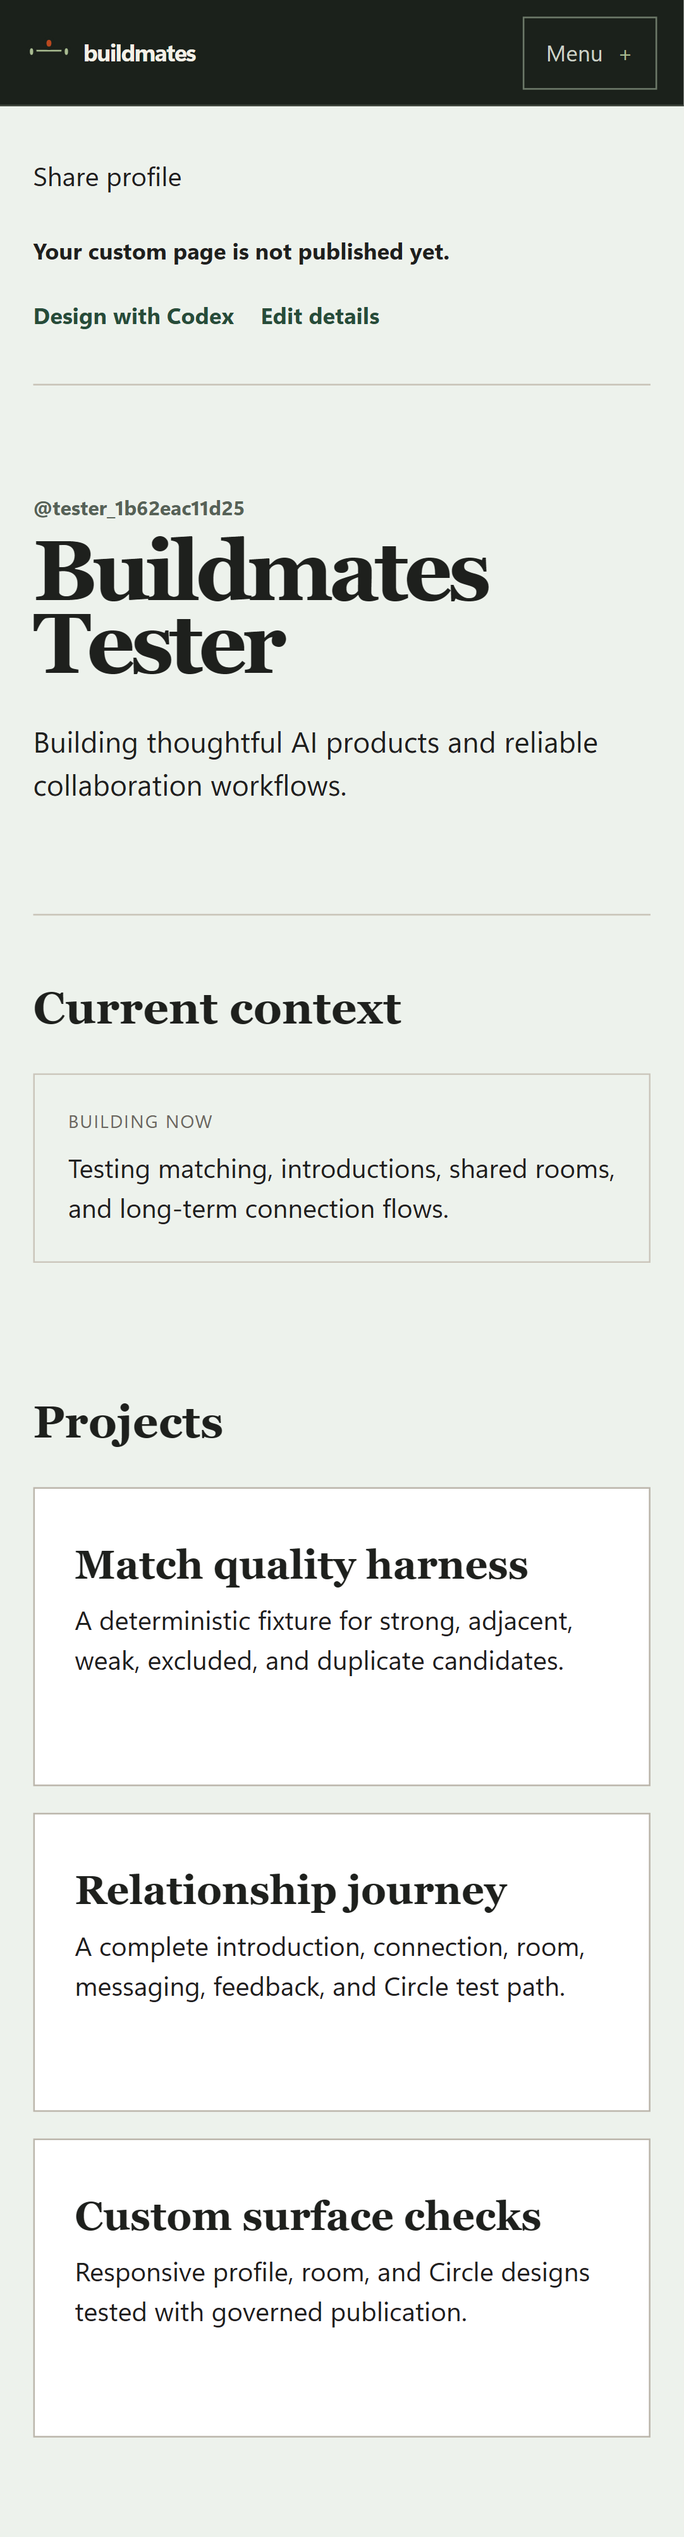
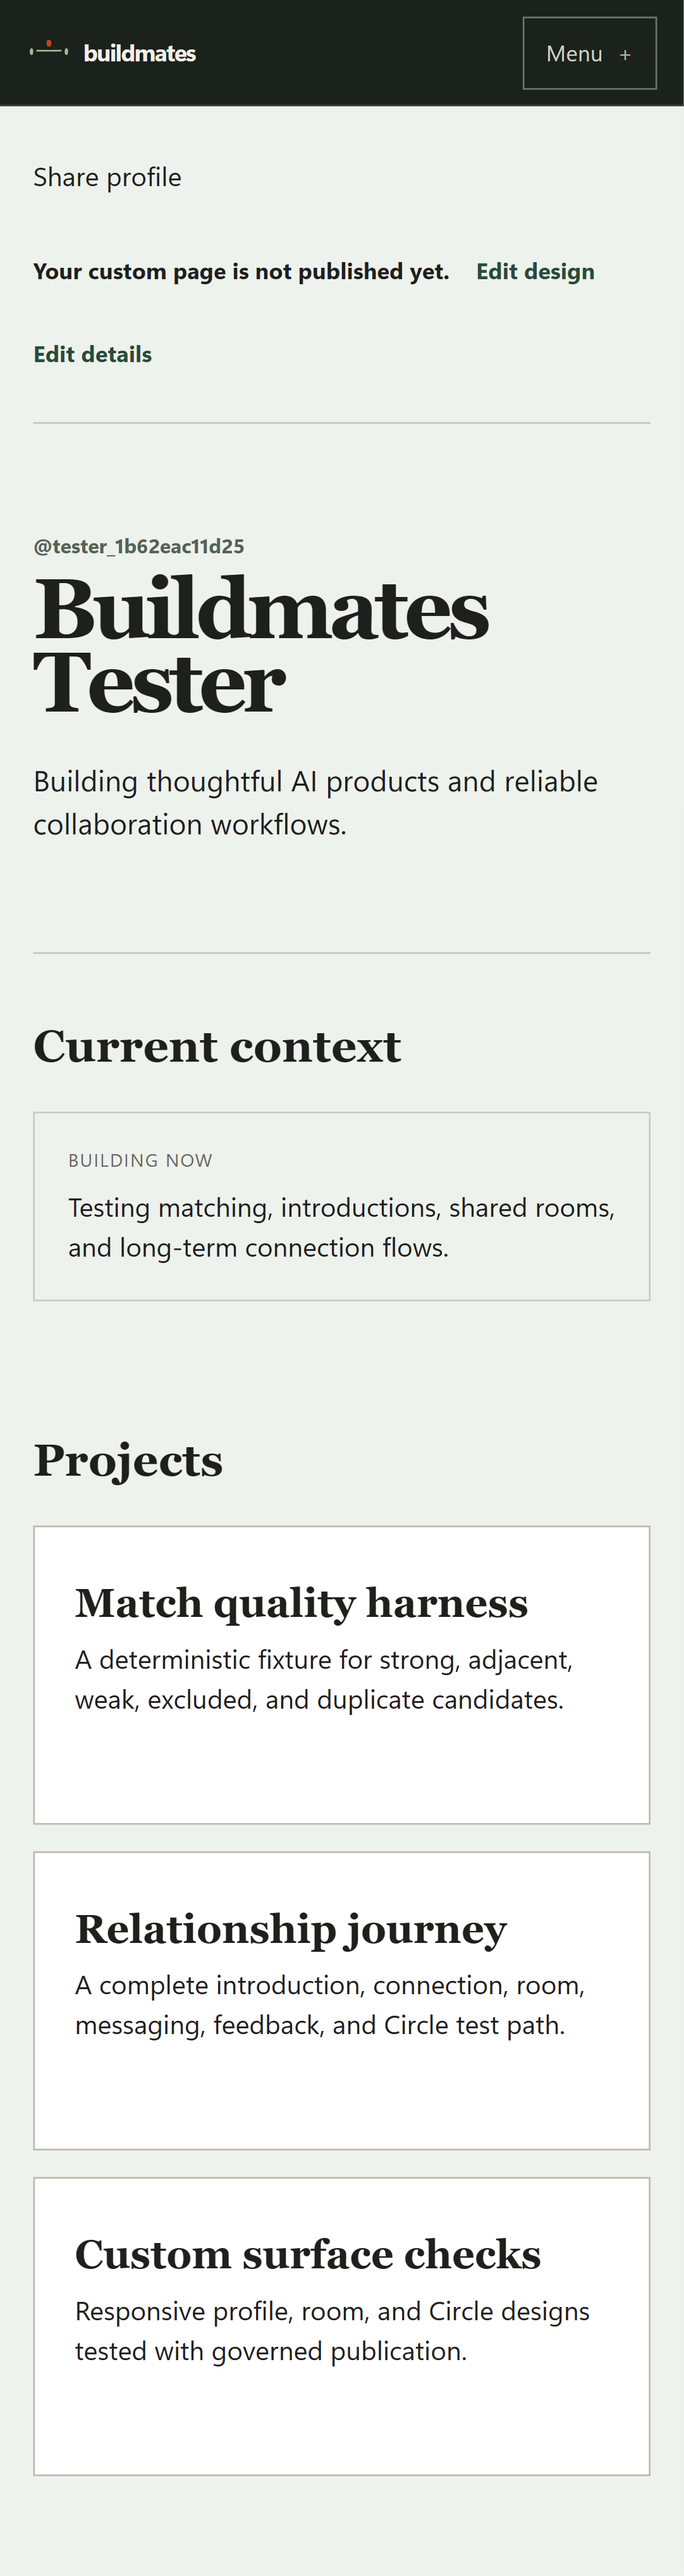
Clarify profile editing navigation

diff --git a/tests/e2e/profile-generation.spec.ts b/tests/e2e/profile-generation.spec.ts
@@ -34,6 +34,7 @@ test("profile editing continues into the private custom-design workspace", async
   expect(response.ok(), await response.text()).toBe(true);
   await expect(page).toHaveURL(/\/profile\/design$/, { timeout: 30_000 });
   await expect(page.getByRole("heading", { name: "Make your page feel like you." })).toBeVisible();
+  await expect(page.getByRole("link", { name: "Edit profile details" })).toHaveAttribute("href", "/profile/edit");
   await expect(page.getByText("Codex checks the complete page on desktop and phone before you see it.")).toBeVisible();
   const overflow = await page.evaluate(() => document.documentElement.scrollWidth - document.documentElement.clientWidth);
   expect(overflow).toBeLessThanOrEqual(1);
@@ -58,6 +59,7 @@ test("the canonical builder fallback shows approved project drafts without an em
   await expect(page.getByRole("heading", { name: "Match quality harness" })).toBeVisible();
   await expect(page.getByRole("heading", { name: "Relationship journey" })).toBeVisible();
   await expect(page.getByText("No visible projects yet.")).toHaveCount(0);
+  await expect(page.getByRole("link", { name: "Edit design" })).toHaveAttribute("href", "/profile/design");
   const overflow = await page.evaluate(() => document.documentElement.scrollWidth - document.documentElement.clientWidth);
   expect(overflow).toBeLessThanOrEqual(1);
   await page.screenshot({ path: path.join(evidenceRoot, `${test.info().project.name}-builder-fallback.png`), fullPage: true });

diff --git a/apps/web/app/builders/[handle]/page.tsx b/apps/web/app/builders/[handle]/page.tsx
@@ -294,7 +294,7 @@ export default async function BuilderPage({
             Want a new direction? Tell Codex what to change, then review it
             before publishing.
           </span>
-          <Link href="/profile/design">Redesign with Codex</Link>
+          <Link href="/profile/design">Edit design</Link>
           <Link href="/profile/edit">Edit details</Link>
         </div>
       ) : null}
@@ -344,7 +344,7 @@ export default async function BuilderPage({
           {ownProfile ? (
             <div className={styles.draftProfileReminder}>
               <span>Your custom page is not published yet.</span>
-              <Link href="/profile/design">Design with Codex</Link>
+              <Link href="/profile/design">Edit design</Link>
               <Link href="/profile/edit">Edit details</Link>
             </div>
           ) : null}

diff --git a/apps/web/components/profile-projects/RevisionPreview.tsx b/apps/web/components/profile-projects/RevisionPreview.tsx
@@ -1,6 +1,7 @@
 "use client";
 
 import { useCallback, useEffect, useState } from "react";
+import Link from "next/link";
 import type { SurfaceBindings } from "@buildmates/surfaces";
 import { SurfaceRenderer } from "@/components/surfaces/SurfaceRenderer";
 import { userFacingError } from "@/src/client/user-facing-error";
@@ -119,6 +120,9 @@ export function RevisionPreview() {
           </div>
           {data ? (
             <div className={styles.designWorkspaceActions} aria-label="Profile design actions">
+              <Link className={styles.quietAction} href="/profile/edit">
+                Edit profile details
+              </Link>
               <a
                 className={styles.primaryAction}
                 href={`codex://open?prompt=${encodeURIComponent(designPrompt)}`}

diff --git a/apps/web/app/profile/edit/page.tsx b/apps/web/app/profile/edit/page.tsx
@@ -13,7 +13,7 @@ export default async function ProfileEditPage() {
   const profile = handle ? await getProfileByHandle(DB, handle.handle, user.id) : null;
 
   return <><ProductHeader signedIn/><main className={styles.profileShell}>
-    <div className={styles.profileActions}><Link href={handle ? `/builders/${handle.handle}` : "/home"}>Back to profile</Link><Link href="/profile/design">Design with Codex</Link></div>
+    <div className={styles.profileActions}><Link href={handle ? `/builders/${handle.handle}` : "/home"}>Back to profile</Link><Link href="/profile/design">Edit design</Link></div>
     <ProfileReview
       defaultHandle={handle?.handle ?? ""}
       initial={profile ? {

diff --git a/BUILD_INDEX.md b/BUILD_INDEX.md
@@ -323,6 +323,7 @@ Run one clean 0/10 Codex onboarding QA against the production MCP and preserve t
 - `/builders/{handle}` remains the one canonical share URL. A published custom SurfaceSpec replaces the structured fallback at that same URL; `/profile/design` remains the private owner workspace. The Profile menu now opens the design workspace until a custom revision is published, then opens the canonical public page.
 - Structured edits now preserve the reviewed `projects` ProfileDraft instead of deleting it. The fallback reads the same approved project projection used by generated profiles, excludes the raw `projects` object from Current context, and makes an odd final context item span the full row rather than leaving an empty grid tile.
 - Saving profile details continues to `/profile/design`, where Codex is instructed to render and repair the complete desktop and phone page before presenting a preview. Users iterate on taste and art direction; spacing, overflow, clipping, contrast, legibility, and responsive defects remain automatic QA responsibilities.
+- Owner navigation now uses **Edit design** on the canonical profile and profile editor, while `/profile/design` exposes **Edit profile details** and returns saved content to the design workspace. **Design with Codex** is reserved for the action that actually launches the Codex design workflow.
 - The profile editor now uses content-sized selects, wider privacy columns, stable textarea heights, and a 760px single-column breakpoint. Focused database, rendered HTML, and desktop/phone browser checks pass; evidence is under `docs/qa/evidence/2026-07-20/profile-flow/`.
 - The 253-builder Map/Build Graph fixture remains intact. Map visual design is founder-approved; the fixture's Connections-formed total remains a separate verification item. Build Graph visual iteration remains deferred and no fixture rows may be removed yet.
 - Production truth: the session-aware landing, custom-profile-first routing, repaired editor layout, and viewer-authorized project recovery are live in ChatGPT Sites version 63 from commit `c9e6464bedd6f7b6996d674eb1b13b197bef395f` (`appgdep_6a5e82b998608191873b440d29749940`). A signed-in Chrome session redirected `/` to `/home`, the profile editor rendered without clipped privacy controls, and `/builders/yashns` rendered nine project cards from the already-approved current-work field with no empty project state. Production smoke passed landing, D1, security headers, authenticated routing, robots, and manifest.

diff --git a/docs/qa/2026-07-18-agentic-product-qa.md b/docs/qa/2026-07-18-agentic-product-qa.md
@@ -372,5 +372,6 @@ Add one dated entry per interaction with: task ID, prompt, result, evaluation, s
 - Fallback profile: Pass at desktop and phone sizes. Approved project drafts render as cards, the projects object is not repeated as a Current context blob, an odd context item does not leave a blank tile, and the owner gets a compact design/edit reminder inside the page rather than a second global navigation bar.
 - Editor UI: Pass at desktop and phone sizes. Select labels are fully visible, textareas remain legible and resizable, privacy controls reflow before they become cramped, and all tested pages have no horizontal overflow. Evidence: `docs/qa/evidence/2026-07-20/profile-flow/`.
 - Verification: web typecheck passes; focused profile-visibility integration passes 6/6; rendered web checks pass 16/16; profile-flow Playwright passes 10/10 across Chromium desktop and Pixel 7.
+- Owner editing labels: Pass locally. The canonical profile and profile editor expose **Edit design** to `/profile/design`; the design workspace exposes **Edit profile details** to `/profile/edit`; saving details still returns to the design workspace. Updated desktop and phone evidence is under `docs/qa/evidence/2026-07-20/profile-flow/`.
 - Visualization boundary: production Map/Build Graph fixture remains untouched. Map styling is accepted; the Connections-formed aggregate still needs explicit fixture validation. Build Graph iteration remains pending.
 - Live verification: ChatGPT Sites version 63 (`appgdep_6a5e82b998608191873b440d29749940`) is deployed from `c9e6464bedd6f7b6996d674eb1b13b197bef395f`. Signed-in `/` redirected to `/home`; the live profile editor no longer clipped its audience controls; and the canonical `/builders/yashns` fallback rendered all nine audience-authorized current-work projects instead of an empty state. Production smoke passed.
